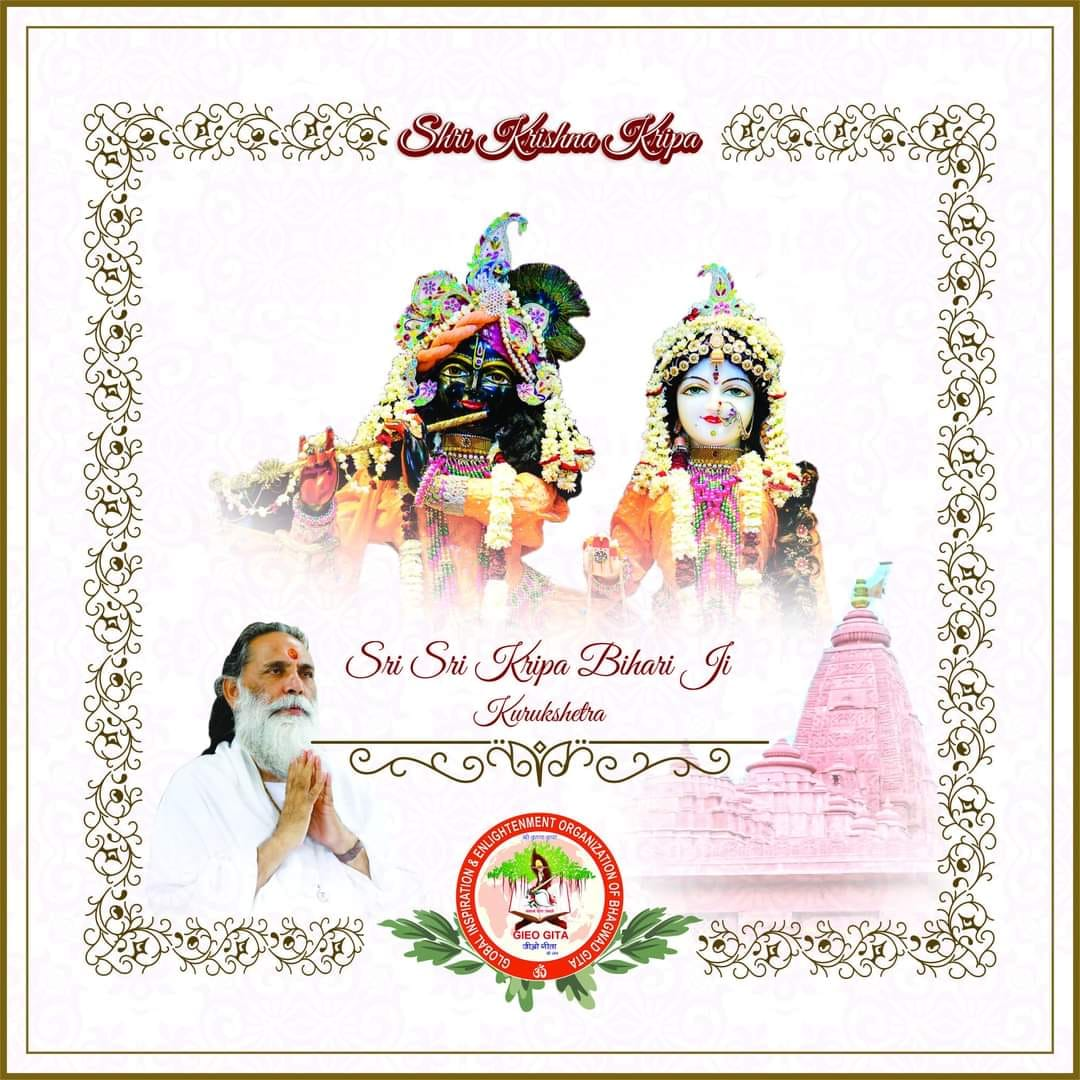
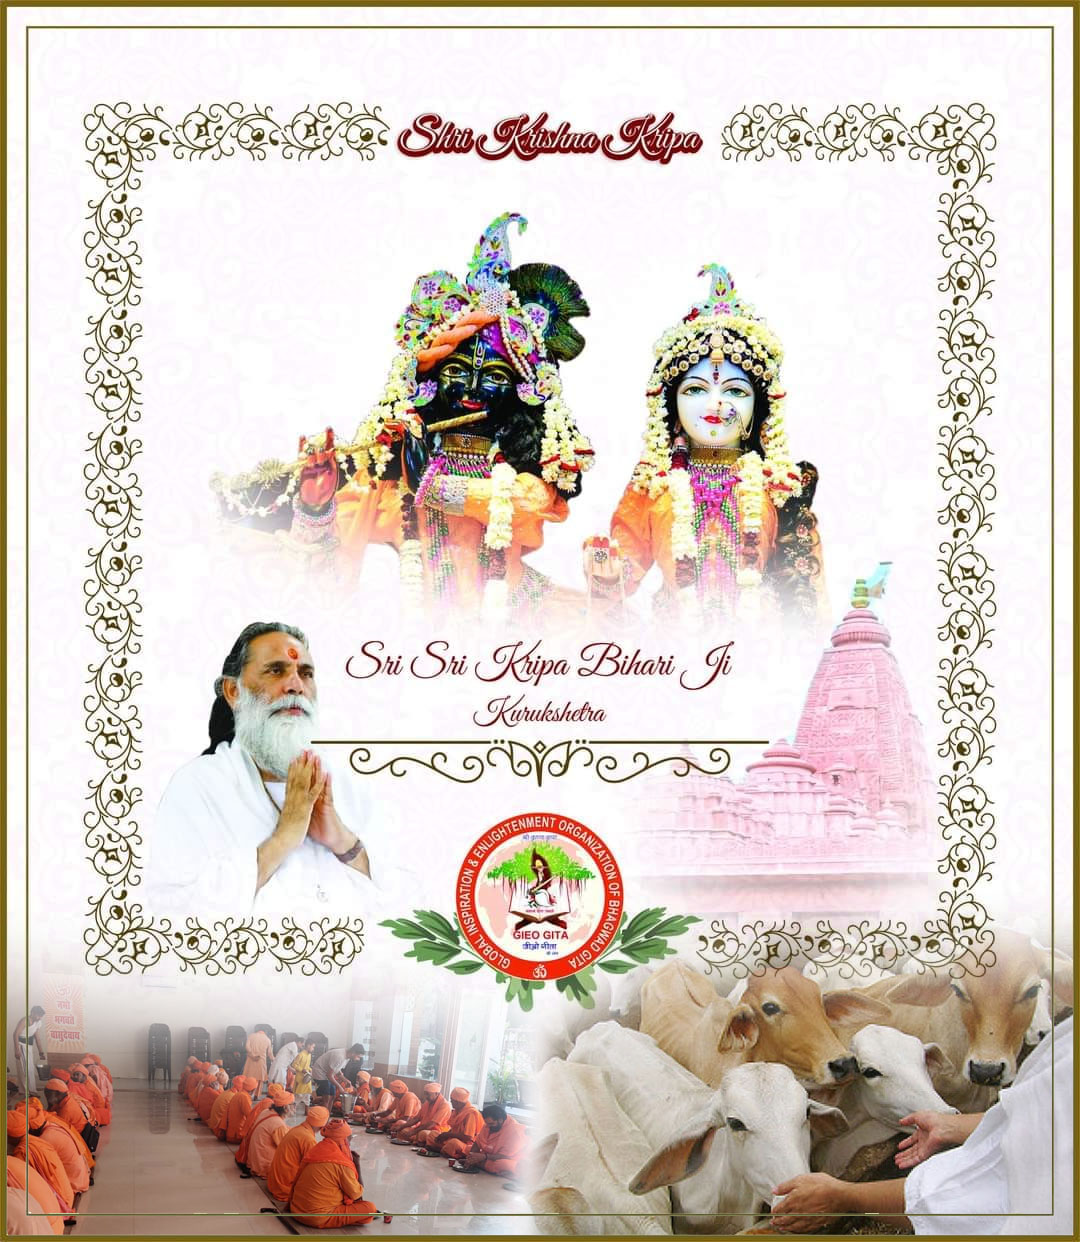
added the advance message setup

diff --git a/login/api/getData.php b/login/api/getData.php
@@ -1,6 +1,6 @@
 <?php
 $newStr = "";
-include ("../../partials/_db.php");
+include("../../partials/_db.php");
 
 $currentURL = "https://$_SERVER[HTTP_HOST]/";
 $response = [];
@@ -27,53 +27,43 @@ $aniMonth = isset($_POST['aniMonth']) ? $_POST['aniMonth'] : null;
 $selectedMediaIds = isset($_POST['selectedMedia']) ? json_decode($_POST['selectedMedia'], true) : [];
 
 
-if ($byCountry || $byState || $filterdistrict || $bytehsil || $dikshit || $birthDate || $birthMonth || $aniDate || $aniMonth)
-{
+if ($byCountry || $byState || $filterdistrict || $bytehsil || $dikshit || $birthDate || $birthMonth || $aniDate || $aniMonth) {
     $newStr = ' WHERE ';
 }
 
-if ($byCountry)
-{
+if ($byCountry) {
     $byCountry = " country LIKE '" . $byCountry . "%'";
     array_push($filters, $byCountry);
 }
-if ($byState)
-{
+if ($byState) {
     $byState = " state LIKE '" . $byState . "%'";
     array_push($filters, $byState);
 }
-if ($filterdistrict)
-{
+if ($filterdistrict) {
     $filterdistrict = " district LIKE '" . $filterdistrict . "%'";
     array_push($filters, $filterdistrict);
 }
-if ($bytehsil)
-{
+if ($bytehsil) {
     $bytehsil = " tehsil LIKE '" . $bytehsil . "%'";
     array_push($filters, $bytehsil);
 }
-if ($dikshit)
-{
+if ($dikshit) {
     $dikshit = " dikshit LIKE '" . $dikshit . "%'";
     array_push($filters, $dikshit);
 }
-if ($birthDate)
-{
+if ($birthDate) {
     $birthDate = " DAY(dob) = " . $birthDate . "";
     array_push($filters, $birthDate);
 }
-if ($birthMonth)
-{
+if ($birthMonth) {
     $birthMonth = " MONTH(dob) = " . $birthMonth . "";
     array_push($filters, $birthMonth);
 }
-if ($aniDate)
-{
+if ($aniDate) {
     $aniDate = " DAY(aniver_date) = " . $aniDate . "";
     array_push($filters, $aniDate);
 }
-if ($aniMonth)
-{
+if ($aniMonth) {
     $aniMonth = " MONTH(aniver_date) = " . $aniMonth . "";
     array_push($filters, $aniMonth);
 }
@@ -84,14 +74,12 @@ $sql = "SELECT * FROM `users`  " . $newStr . "  ORDER BY name ASC;";
 // Fetch selected media paths and captions
 $mediaPaths = [];
 $mediaCaptions = [];
-if (!empty($selectedMediaIds))
-{
+if (!empty($selectedMediaIds)) {
     $ids = implode(",", $selectedMediaIds);
     $mediaSql = "SELECT image_path, image_caption FROM api_content WHERE id IN ($ids)";
     $mediaResult = $conn->query($mediaSql);
 
-    while ($mediaRow = $mediaResult->fetch_assoc())
-    {
+    while ($mediaRow = $mediaResult->fetch_assoc()) {
         $mediaPaths[] = $mediaRow['image_path'];
         $mediaCaptions[] = $mediaRow['image_caption'];
     }
@@ -108,28 +96,22 @@ function convert_to_str($arr, $currentURL)
 $allMediaStr = convert_to_str($mediaPaths, $currentURL);
 $allCaptionStr = implode(',', $mediaCaptions);
 
-if ($birthDate)
-{
-    if ($birthDate == date('d'))
-    {
+if ($birthDate) {
+    if ($birthDate == date('d')) {
         $allMediaStr = "https://parivaar.gieogita.org/login/bday.jpg";
         $allCaptionStr = "जन्मदिवस की  शुभकामना";
-    } else
-    {
+    } else {
         $allMediaStr = "https://parivaar.gieogita.org/login/advance.jpg";
-        $allCaptionStr = "जन्मदिवस की  शुभकामना";
+        $allCaptionStr = "जय श्री कृष्ण";
     }
 }
-if ($aniDate)
-{
-    if ($aniDate == date('d'))
-    {
+if ($aniDate) {
+    if ($aniDate == date('d')) {
         $allMediaStr = "https://parivaar.gieogita.org/login/anniversary.jpg";
         $allCaptionStr = "वैवाहिक वर्षगांठ की शुभकामना";
-    } else
-    {
+    } else {
         $allMediaStr = "https://parivaar.gieogita.org/login/advance.jpg";
-        $allCaptionStr = "जन्मदिवस की  शुभकामना";
+        $allCaptionStr = "जय श्री कृष्ण";
     }
 }
 
@@ -162,10 +144,8 @@ $message = $msgrow['msg'];
 $users = [];
 $result = $conn->query($sql);
 $totalresult = mysqli_num_rows($result);
-if ($totalresult > 0)
-{
-    while ($row = mysqli_fetch_array($result))
-    {
+if ($totalresult > 0) {
+    while ($row = mysqli_fetch_array($result)) {
         $code = $country_code[$row['country']];
         $user = [
             'id' => $row['id'],
@@ -192,8 +172,7 @@ if ($totalresult > 0)
         $users[] = $user;
     }
     $response['users'] = $users;
-} else
-{
+} else {
     $response['users'] = [];
 }
 
